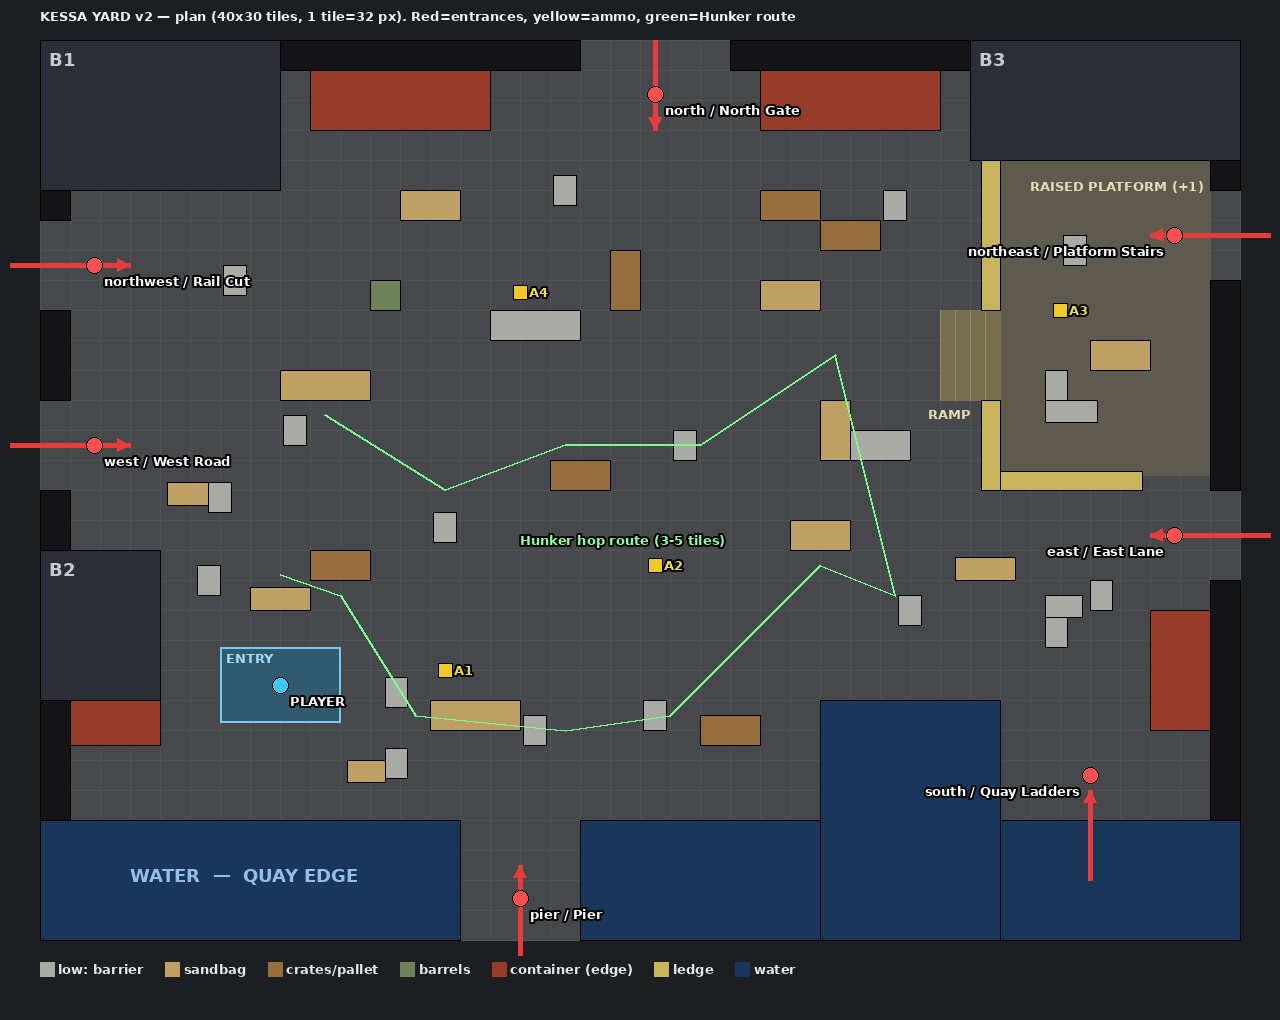
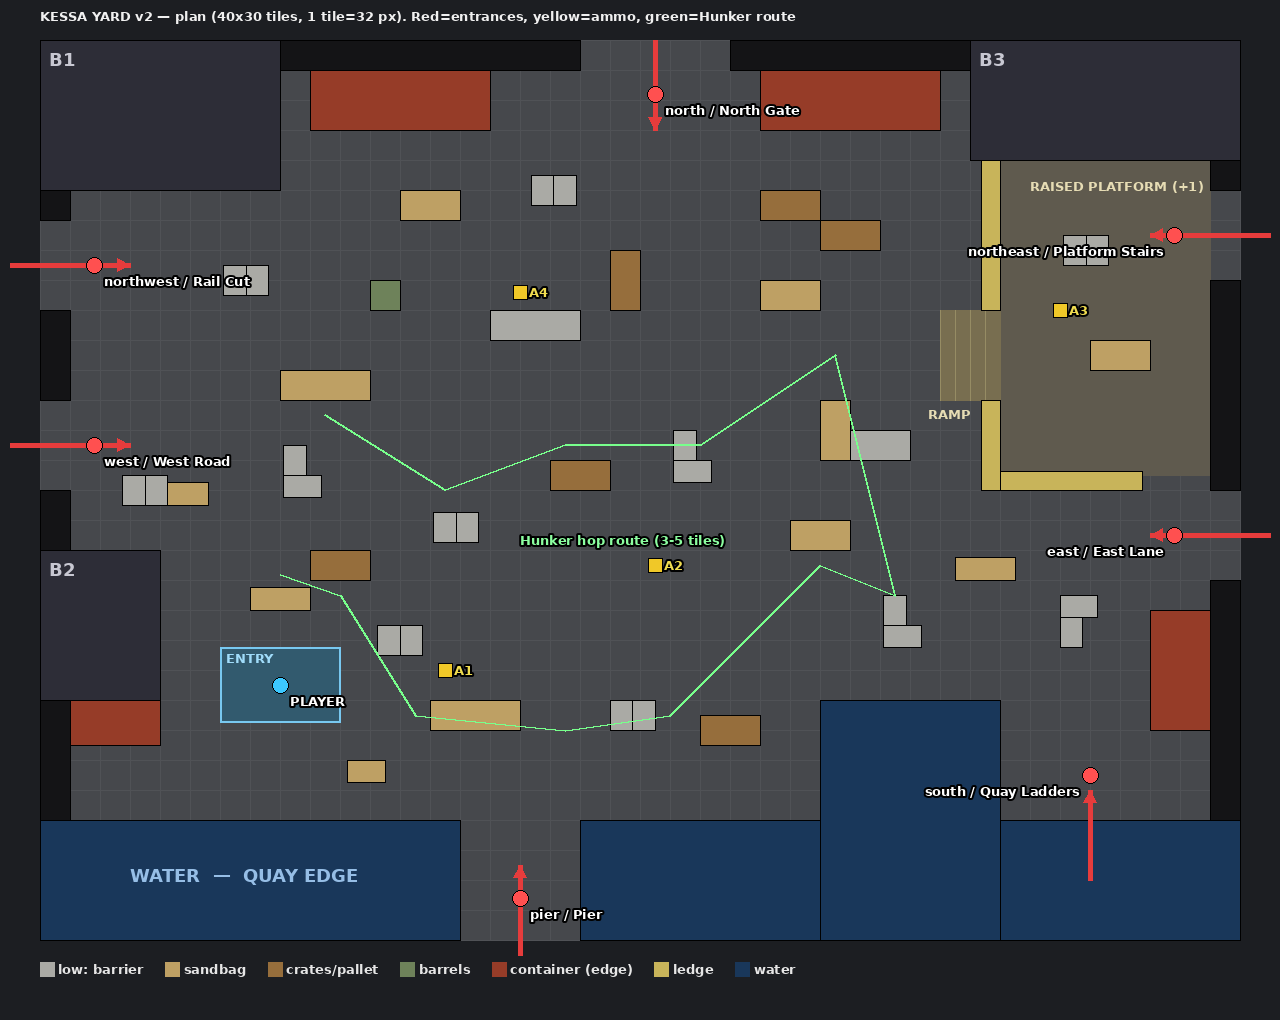
Kessa Yard: jersey low cover in pairs/L, enemy stuck & spread fix

diff --git a/game/src/effects/cover.js b/game/src/effects/cover.js
@@ -49,7 +49,7 @@ const LN = Math.max(0, -LIGHT_DIR.y), LW = Math.max(0, -LIGHT_DIR.x);
 
 // Hver maler får (c, R, S): S = { w, d (topp-dybde, forkortet), f (fronthøyde, forkortet), g (forkorting), horiz }
 // Toppflaten ligger i y ∈ [0, d], fronten i [d, d + f]. Lang akse er x når horiz; ellers ligger objektet nord–sør.
-function paintNSBarrier(c, R, S) { return (globalThis.__BREACH_NSV === 4 ? paintNSBarrierV4 : paintNSBarrierV5)(c, R, S); }
+function paintNSBarrier(c, R, S) { return paintJersey(c, R, S); } // 28.10: jersey-blokk erstatter v5 (v4/v5 beholdt under for sammenligning)
 // v5 (27.10): lang, lav jersey-rekke. Toppen senket (front bare 28 % av løftet), tverrprofil fot–flanke–rygg–flanke–fot,
 // tydelige tverrfuger ca. hver 1,5 rute (leses som liggende seksjoner, ikke søyle), sørende med jersey-trapes + gul/svart stripe.
 function paintNSBarrierV5(c, R, S) {
@@ -265,7 +265,45 @@ function paintTunnel(c, R, S) {   // kulvert med åpning mot sør: tak (sylinder
   c.fillStyle = 'rgba(0,0,0,0.4)'; c.fillRect(0, fy, w, 0.7);
   speckle(c, R, 0, 0, w, d + f, Math.round(w * (d + f) / 12), [40, 34, 28], 0.1, 0.35);
 }
-const PAINT = { barrier: paintBarrier, sandbag: paintSandbag, crates: paintCrates, barrels: paintBarrels, tunnel: paintTunnel };
+// Arena (Breach 28.10, lav dekning): massiv lav jersey-blokk. Topp komprimert så fronten blir >= ~55 % av toppdybden.
+function paintJersey(c, R, S) {
+  const { w, f } = S, d0 = S.d, CON = tint([112, 113, 110], R.r(0.9, 1.0));
+  const y0 = f * 0.42, ft = Math.max(f * 0.55, d0 * 0.5), top = d0 + f - y0 - ft; c.save(); c.translate(0, y0);          // toppflate y∈[0,top], front y∈[top, d0+f]
+  const n = S.horiz ? Math.max(1, Math.round(w / 40)) : 1, gap = n > 1 ? 1.2 : 0, sw = (w - gap * (n - 1)) / n;
+  const yb = d0 + f - y0;
+  // slagskygge mot SØ (som sandsekkene) + kontakt-AO
+  for (let q = 5; q >= 0; q--) { const e = q * 1.3; c.fillStyle = 'rgba(0,0,0,0.21)'; c.beginPath();
+    c.moveTo(w * 0.1, yb - 1); c.lineTo(w + 4 + e, yb - 1); c.lineTo(w + 6 + e, yb + 4 + e * 0.6); c.lineTo(2 + e * 0.4, yb + 4 + e * 0.6); c.closePath(); c.fill();
+    c.beginPath(); c.moveTo(w - 1, ft * 0.2); c.lineTo(w + 4 + e, ft * 0.35 + 2); c.lineTo(w + 4 + e, yb + 2); c.lineTo(w - 1, yb); c.closePath(); c.fill(); }
+  c.fillStyle = 'rgba(0,0,0,0.75)'; c.fillRect(-0.5, yb - 0.6, w + 1.5, 1.6);
+  for (let j = 0; j < n; j++) {
+    const x0 = j * (sw + gap), x1 = x0 + sw, ins = sw * 0.2, fs = sw * 0.08;
+    // TOPP: smal rygg + skrå flanker sett ovenfra
+    c.fillStyle = rgb(CON, -0.42); c.fillRect(x0, 0, ins, top);                                   // vestflanke (lys side mot lys)
+    c.fillStyle = grad(c, 0, 0, 0, top, [[0, rgb(CON, -0.32)], [1, rgb(CON, -0.4)]]); c.fillRect(x0 + ins, 0, sw - 2 * ins, top);
+    c.fillStyle = rgb(CON, -0.6); c.fillRect(x1 - ins, 0, ins, top);                             // østflanke mørk
+    c.fillStyle = rgb(CON, 0.55); c.fillRect(x0 + ins, 0, sw - 2 * ins, 0.9);                     // lys toppkant nord
+    c.fillStyle = rgb(CON, 0.45); c.fillRect(x0 + ins, top - 0.8, sw - 2 * ins, 0.8);             // lys kant topp→front
+    c.fillStyle = 'rgba(0,0,0,0.35)'; c.fillRect(x1 - ins, 0, 0.6, top);
+    // FRONT: jersey-profil (rygg → skrå flanke → loddrett fot)
+    const yk = top + ft * 0.55;
+    c.fillStyle = grad(c, 0, top, 0, yk, [[0, rgb(CON, -0.22)], [1, rgb(CON, -0.38)]]);
+    c.beginPath(); c.moveTo(x0 + ins, top); c.lineTo(x1 - ins, top); c.lineTo(x1 - fs, yk); c.lineTo(x0 + fs, yk); c.closePath(); c.fill();
+    c.fillStyle = rgb(CON, -0.05); c.beginPath(); c.moveTo(x0, 0); c.lineTo(x0 + ins, 0); c.lineTo(x0 + ins, top); c.lineTo(x0 + fs, yk); c.lineTo(x0, yk); c.closePath(); c.fill(); // vest-silhuett
+    c.fillStyle = rgb(CON, -0.5); c.beginPath(); c.moveTo(x1, 0); c.lineTo(x1 - ins, 0); c.lineTo(x1 - ins, top); c.lineTo(x1 - fs, yk); c.lineTo(x1, yk); c.closePath(); c.fill();
+    c.fillStyle = grad(c, 0, yk, 0, yb, [[0, rgb(CON, -0.34)], [1, rgb(CON, -0.52)]]); c.fillRect(x0, yk, sw, yb - yk);   // fot
+    c.fillStyle = 'rgba(255,255,255,0.18)'; c.fillRect(x0 + fs, yk - 0.4, sw - 2 * fs, 0.7);    // knekk-highlight
+    if (S.hz && j === 0 || n === 1) hazard(c, x0 + 1, yk + (yb - yk) * 0.22, sw - 2, (yb - yk) * 0.5, 1.6);
+    // slitasje: avskallinger på kanter
+    for (let q = 0; q < 4; q++) { const cx = x0 + R() * sw, cy = R() < 0.5 ? top : yk; c.fillStyle = rgb(CON, R() < 0.5 ? -0.6 : 0.3, 0.9);
+      c.beginPath(); c.moveTo(cx, cy - 0.6); c.lineTo(cx + R.r(1, 2.5), cy + R.r(0, 1)); c.lineTo(cx + R.r(-1, 1), cy + R.r(1, 2)); c.fill(); }
+    c.save(); c.beginPath(); c.rect(x0, 0, sw, yb); c.clip(); speckle(c, R, x0, 0, sw, yb, Math.round(sw * yb / 6), [50, 50, 48], 0.15, 0.45); c.restore();
+    c.fillStyle = 'rgba(10,10,10,0.75)'; c.fillRect(x0 + sw * 0.44, top * 0.45, sw * 0.12, 1.4);   // løftehull
+  }
+  c.restore();
+}
+function paintBarrierMix(c, R, S) { return S.w <= 64 ? paintJersey(c, R, S) : paintBarrier(c, R, S); }
+const PAINT = { barrier: paintBarrierMix, sandbag: paintSandbag, crates: paintCrates, barrels: paintBarrels, tunnel: paintTunnel };
 
 function build(kind, o, H, P, qx, qy, seed) {
   const lift = H * P.zScale, g = qy / qx, horiz = o.w >= o.h, so = shadowOffset(H);
@@ -276,7 +314,7 @@ function build(kind, o, H, P, qx, qy, seed) {
   const S = { w: o.w, d, f, g, H, dw: o.h, horiz, hz: R() < 0.65 };
   // bakkeskygge (myk, i bakkeplanet, langs SHADOW_DIR) + kontakt-AO ved foten. Fotavtrykket ligger i y ∈ [f, f + d].
   const fx0 = 0, fy0 = f, fw = o.w, fh = d, sx = Math.min(6, so.x), sy = Math.min(6, so.y) * g;   // Arena klipper spriten 8 px utenfor rektangelet; resten av bakkeskyggen tegner Arena (drawShadows)
-  const nsB = !horiz && kind === 'barrier';
+  const nsB = kind === 'barrier' && Math.max(o.w, o.h) <= 64; // 28.10: alle lave jersey-blokker (≤ 2 ruter) har egen slagskygge i paintJersey
   if (!nsB) for (let q = 4; q >= 0; q--) { const e = q * 1.2; c.fillStyle = `rgba(0,0,0,${0.13})`; c.beginPath();
     c.moveTo(fx0 - e * 0.3, fy0 - e * 0.3 * g); c.lineTo(fx0 + fw + e * 0.3, fy0 - e * 0.3 * g); c.lineTo(fx0 + fw + sx + e, fy0 + sy - e * g); c.lineTo(fx0 + fw + sx + e, fy0 + fh + sy + e * g); c.lineTo(fx0 + sx - e * 0.5, fy0 + fh + sy + e * g); c.lineTo(fx0 - e * 0.3, fy0 + fh + e * 0.3 * g); c.closePath(); c.fill(); }
   if (!nsB) { c.fillStyle = grad(c, 0, d + f - 1, 0, d + f + 3 * g, [[0, 'rgba(0,0,0,0.8)'], [1, 'rgba(0,0,0,0)']]); c.fillRect(-1.5, d + f - 1, o.w + 3, 3 * g + 1); }   // 27.10: klammer – før lakk fillRect ut for NS-barrierer (hard svart strek under)

diff --git a/game/src/arena/yard-v2.js b/game/src/arena/yard-v2.js
@@ -32,43 +32,47 @@ export const YARD_V2 = {
     ['ledge', 32, 14.375, 4.75, 0.625],
     ['sandbag', 7, 18.25, 2, 0.75],
     ['sandbag', 4.25, 14.75, 1.375, 0.75],  // Story P1 (27.10)
+    ['barrier', 2.75, 14.5, 0.75, 1],     // G12 (28.10): par inntil P1, stenger siktlinja vestspawn → spillerstart (erstatter #3)
+    ['barrier', 3.5, 14.5, 0.75, 1],
     ['sandbag', 30.5, 17.25, 2, 0.75],      // Story P2 (27.10)
     ['sandbag', 10.25, 24, 1.25, 0.75],     // Story P3 (27.10)
-    ['barrier', 11.5, 21.25, 0.75, 1],
-    ['barrier', 11.5, 23.625, 0.75, 1],
-    ['barrier', 5.25, 17.5, 0.75, 1],
+    ['barrier', 11.25, 19.5, 0.75, 1],    // Arena 28.10 lav dekning G1: par (#1+#2 slått sammen; x 11,25 gir 1,25 klaring mot ENTRY, Story-krav)
+    ['barrier', 12, 19.5, 0.75, 1],
     ['crates', 9, 17, 2, 1],
     ['sandbag', 13, 22, 3, 1],
-    ['barrier', 16.125, 22.5, 0.75, 1],
-    ['barrier', 20.125, 22, 0.75, 1],
+    ['barrier', 19, 22, 0.75, 1],         // G2: par langs løperuten (flyttet 1,125 vest for klaring mot kassene)
+    ['barrier', 19.75, 22, 0.75, 1],
     ['crates', 22, 22.5, 2, 1],
-    ['barrier', 33.5, 18.5, 1.25, 0.75],
-    ['barrier', 33.5, 19.25, 0.75, 1],
-    ['barrier', 28.625, 18.5, 0.75, 1],
+    ['barrier', 34, 18.5, 1.25, 0.75],    // G10: eksisterende L flyttet 0,5 øst (klaring mot sandsekk P2)
+    ['barrier', 34, 19.25, 0.75, 1],
+    ['barrier', 28.125, 18.5, 0.75, 1],   // G3: L (flyttet 0,5 vest)
+    ['barrier', 28.125, 19.5, 1.25, 0.75],
     ['sandbag', 25, 16, 2, 1],
-    ['barrier', 5.625, 14.75, 0.75, 1],
     ['sandbag', 8, 11, 3, 1],
-    ['barrier', 8.125, 12.5, 0.75, 1],
-    ['barrier', 13.125, 15.75, 0.75, 1],
+    ['barrier', 8.125, 13.5, 0.75, 1],    // G4: L (flyttet 1 sør, bort fra sandsekken)
+    ['barrier', 8.125, 14.5, 1.25, 0.75],
+    ['barrier', 13.125, 15.75, 0.75, 1],  // G5: par
+    ['barrier', 13.875, 15.75, 0.75, 1],
     ['crates', 17, 14, 2, 1],
-    ['barrier', 21.125, 13, 0.75, 1],
+    ['barrier', 21.125, 13, 0.75, 1],     // G6: L
+    ['barrier', 21.125, 14, 1.25, 0.75],
     ['sandbag', 26, 12, 1, 2],
     ['barrier', 27, 13, 2, 1],
     ['barrels', 11, 8, 1, 1],
     ['barrier', 15, 9, 3, 1],
     ['crates', 19, 7, 1, 2],
     ['sandbag', 24, 8, 2, 1],
-    ['barrier', 6.125, 7.5, 0.75, 1],
+    ['barrier', 6.125, 7.5, 0.75, 1],     // G7: par
+    ['barrier', 6.875, 7.5, 0.75, 1],
     ['sandbag', 12, 5, 2, 1],
+    ['barrier', 16.375, 4.5, 0.75, 1],    // G8: par
     ['barrier', 17.125, 4.5, 0.75, 1],
     ['crates', 24, 5, 2, 1],
-    ['barrier', 28.125, 5, 0.75, 1],
     ['crates', 26, 6, 2, 1],
-    ['barrier', 34.125, 6.5, 0.75, 1],
+    ['barrier', 34.125, 6.5, 0.75, 1],    // G9: par (østover, bort fra ledge)
+    ['barrier', 34.875, 6.5, 0.75, 1],
     ['sandbag', 35, 10, 2, 1],
-    ['barrier', 33.5, 12, 1.75, 0.75],
-    ['barrier', 33.5, 11, 0.75, 1],
-    ['barrier', 35, 18, 0.75, 1],
+    // Arena 28.10: L (33,5;11–12) fjernet – plattformen mellom ledge og sandsekk 35;10 gir ikke 1,5 rute klaring noe sted
   ],
   zones: {'platform': {'x': 32, 'y': 4, 'w': 7, 'h': 10.5, 'kind': 'raised', 'h_px': 24}, 'ramp': {'x': 30, 'y': 9, 'w': 2, 'h': 3, 'kind': 'ramp', 'dir': 'E'}},
   ammoCrates: [[13.5, 21], [20.5, 17.5], [34, 9], [16, 8.4]],

diff --git a/game/src/enemies/hunt.js b/game/src/enemies/hunt.js
@@ -91,7 +91,7 @@ export function huntTick(world, e, dt) {
   if (e.huntDelay == null) e.huntDelay = HUNT.delay[0] + world.rng() * (HUNT.delay[1] - HUNT.delay[0]);
   if (e.sees && e.state !== 'hunt') e.hunting = false;
   if (e.contactAt == null && (e.sees || (sq.known && now - sq.known.t < 0.5))) e.contactAt = now;
-  if (e.sees) { e.lastSightAt = now; e.huntStage = 0; e.stillBlindT = 0; e.blockedT = 0; return; }
+  if (e.sees) { e.lastSightAt = now; e.huntStage = 0; e.stillBlindT = 0; blockedSeeing(world, e, dt, now); return; }   // 28.10: fastlåst-sjekk også med sikt
   if (blockedCheck(world, e, dt, now)) return;
   if (e.lastSightAt == null) e.lastSightAt = now;
   if (!e.known) e.known = { x: p.x, y: p.y, t: now, hunt: true };   // aldri null mens den er aware
@@ -183,6 +183,18 @@ function legacyStill(world, e, dt) {
 // A2 27.10: blind fiende som «går» uten å flytte seg (dytter mot hindring) i > 1 s → ny rute.
 // seekCover/returnCover: dropp den dekningen 3 s og jakt via nav. hunt: sidesteg til en gangbar celle 64–96 px unna.
 const BLOCK_STATES = new Set(['seekCover', 'returnCover', 'hunt']);
+// 28.10 (fastlåst ved defensivt spill): blockedCheck kjørte bare UTEN sikt. Fiender i seekCover/returnCover som så Warden
+// over lavt cover og presset mot coverkanten (sti mangler/hjørne) ble aldri sjekket. Med sikt: nær spot (< 24 px) → regnes som fremme;
+// ellers merkes spoten som blokkert i 10 s og fienden velger ny dekning via vanlig think() (tilstand 'hold').
+function blockedSeeing(world, e, dt, now) {
+  if ((e.state !== 'seekCover' && e.state !== 'returnCover') || !e.moving || (e.realSpeed ?? 0) >= 10) { e.blockedT = 0; return false; }
+  e.blockedT = (e.blockedT || 0) + dt;
+  if (e.blockedT < 1.0) return false;
+  e.blockedT = 0; const st = stats(world); st.blockedSee = (st.blockedSee || 0) + 1;
+  if (e.spot && Math.hypot(e.spot.x - e.x, e.spot.y - e.y) < 24) { e.path = null; e.pathIdx = 0; return true; }   // follow() → fremme
+  if (e.spot?.id != null) (e._badSpots ||= new Map()).set(e.spot.id, now + 10);
+  releaseFire(world, e); unreserve(world, e); ai.stop(e); setState(world, e, 'hold'); return true;
+}
 function blockedCheck(world, e, dt, now) {
   if (!BLOCK_STATES.has(e.state) || !e.moving || (e.realSpeed ?? 0) >= 10) { e.blockedT = 0; return false; }
   e.blockedT = (e.blockedT || 0) + dt;
@@ -190,7 +202,7 @@ function blockedCheck(world, e, dt, now) {
   e.blockedT = 0;
   const st = stats(world); st.blocked = (st.blocked || 0) + 1;
   releaseFire(world, e);
-  if (e.state !== 'hunt') { unreserve(world, e); e.noCoverUntil = now + 3; huntStep(world, e, 'blocked'); return true; }
+  if (e.state !== 'hunt') { if (e.spot?.id != null) (e._badSpots ||= new Map()).set(e.spot.id, now + 10); unreserve(world, e); e.noCoverUntil = now + 3; huntStep(world, e, 'blocked'); return true; }   // 28.10: blokkert spot velges ikke igjen på 10 s (fastlåst-fiks)
   const wk = walk(world), r = e.r || 16;
   for (let i = 0; i < 8; i++) {
     const a = world.rng() * Math.PI * 2, D = 64 + world.rng() * 32, x = e.x + Math.cos(a) * D, y = e.y + Math.sin(a) * D;

diff --git a/game/src/enemies/cover.js b/game/src/enemies/cover.js
@@ -94,6 +94,7 @@ export function firingPoint(world, spot, tx, ty) {
 export function scoreSpot(world, e, spot, tx, ty, opts) {
   const owner = opts.reserved.get(spot.id);
   if (owner && owner !== e) return -Infinity;
+  if (e._badSpots && (e._badSpots.get(spot.id) ?? -1) > (world.time ?? 0)) return -Infinity;   // 28.10: blokkert/uten sti nylig
   const dT = dist(spot.x, spot.y, tx, ty);
   if (dT < opts.minRange || dT > opts.maxRange) return -Infinity;
   const q = protection(world, spot, tx, ty);
@@ -111,6 +112,11 @@ export function scoreSpot(world, e, spot, tx, ty, opts) {
   for (const o of opts.others) {                            // spre laget
     const d = dist(o.x, o.y, spot.x, spot.y);
     if (d < 96) s -= (96 - d) / 22;
+  }
+  for (const [id, o] of opts.reserved) {                   // 28.10 spredning: ikke ta spot tett ved en alliert sin reserverte spot
+    if (o === e || o.dead || id === spot.id || !o.spot) continue;
+    const d = dist(o.spot.x, o.spot.y, spot.x, spot.y);
+    if (d < 80) s -= (80 - d) / 20;
   }
   // Hold linja: ikke-flankere skal holde seg i lagets front (flanking er tokenstyrt)
   if (opts.front !== undefined) {

diff --git a/game/src/arena/render.js b/game/src/arena/render.js
@@ -482,8 +482,8 @@ function drawProps(ctx, L, rng) {
 }
 
 // ---------------------------------------------------------------- skygger
-// Nord–sør-barrierer (kind barrier, h > w) males som smal, lav jersey-rekke (effects/cover.js v5): skyggen følger 68 % av bredden.
-function nsShadowRect(o) { if (o.kind !== 'barrier' || !(o.h > o.w)) return o; const w = o.w * 0.68; return { x: o.x + (o.w - w) / 2, y: o.y, w, h: o.h }; }
+// 28.10: jersey-blokkene (effects/cover.js paintJersey) fyller hele fotavtrykket, så bakkeskyggen bruker hele rektangelet (som sandsekkene).
+function nsShadowRect(o) { return o; }
 function* drawShadows(ctx, L) {
   const W = L.width, H = L.height;
   const sc = makeCanvas(W * RES, H * RES), s = sc.getContext('2d'); s.scale(RES, RES);

diff --git a/game/src/enemies/ai.js b/game/src/enemies/ai.js
@@ -164,6 +164,7 @@ export function stop(e) { e.path = null; e.pathIdx = 0; e.moving = false; }
 
 export function goTo(world, e, x, y, state) {
   const path = nav(world).findPath(e.x, e.y, x, y);
+  if (!(path && path.length) && (state === 'seekCover' || state === 'returnCover') && e.spot?.id != null && dist(e.x, e.y, x, y) > 24) (e._badSpots ||= new Map()).set(e.spot.id, (world.time ?? 0) + 10);   // 28.10: ingen sti → merk spot (blockedCheck tar resten)
   e.path = path && path.length ? path : [{ x, y }];
   e.pathIdx = 0;
   if (state) setState(world, e, state);

diff --git a/docs/status/mellomsekvens.md b/docs/status/mellomsekvens.md
@@ -1,28 +1,25 @@
 # Status – Mellomsekvens-maler
-Oppdatert: 2026-10-27 23:08
+Oppdatert: 2026-10-28 00:05
 
 ## Ferdig
-- 7 sekvenser / 24 paneler godkjent og live.
-- NYTT: ending-03b (gjenforening ved heisburet) levert 27.10: game/img/story/ending-03b.webp (1920×1080, 246 kB, q85).
-  - Sammenligning: reviews/img/story-ending-panels-03b.png. Kamerasjekk: reviews/img/ending-03b-cam-check.png.
-  - Råbilder: reviews/img/mellomsekvens-raw/ending-03b-a.jpg (forkastet: cyan visir på troppen, 4 figurer) og ending-03b-b.jpg (valgt).
-  - Kamerabane (Story): [1.0,.5,.58]→[1.15,.5,.42], 7 s. Blåmåling: kun Warden har cyan/blått.
+- Brett 1: 7 sekvenser og 24 paneler er godkjent og live, pluss ending-03b (27.10).
+- Brett 2-overganger: 8 paneler er godkjent av Breach 28.10 og ligger i /workspace/breach-brett2/game/img/story/:
+  refinery-door-01/02, ladder-up-01, pipe-01/02, ladder-down-01, valve-01/02.
+  - Objektene følger Effekters ark (brett2-overganger-ark.png og -v2.png). Det røde rattet (#6b2c22) står på en lav søyle til høyre for døren og slusen.
+  - Kontaktark: breach-brett2/reviews/img/brett2-overganger-kontaktark-1/2/2b/3.
+  - Råbilder og gamle versjoner ligger i breach-brett2/reviews/img/mellomsekvens-raw/.
+  - Story har fått beskjed om å legge panelene inn i PAINTED_PANELS i kopien.
 - Stilguide: reviews/mellomsekvens-stilguide-2026-10-23.md. Review: reviews/mellomsekvens-2026-10-23.md.
 
 ## Pågår
-- NY ORDRE (Breach 27.10 23:07, godkjent av Alexander): 5 overgangssekvenser på brett 2 (raffineriet), 1–2 paneler hver (justert av Breach 23:08; under ca. 4 s, én tekstlinje, ingen stemme): trykkdør, stige opp, sprukket rør, stige ned til nedgravd stilling, ventil/sluse til tankgården. Kontaktark til Breach når de første er klare.
+- Ingenting. STANDBY. Breach stoppet 00:03 og sa at maleriene er ferdige. ladder-up-01 har fått mørk jernstige (00:03), og retusjen av chevronen ble avbrutt uten endring.
 
 ## Neste (bare på ordre)
-- Eventuell ommaling av ending-03b (synligere sprekk i visiret, buret på bakken).
-- Ommaling for Warden variant C, yard-clear-02 landfiks, skarpere oppskalering.
+- Ommaling for Warden variant C, landfiks i yard-clear-02, skarpere oppskalering.
 
 ## Blokkert av
-- Overgangene: venter på tekst og panelbeskrivelser fra Story. Story og brett må legge ending-03b inn i cutscenes.js og PAINTED_PANELS.
+- Ingenting.
 
 ## Siste skjermbilde
-- reviews/img/story-ending-panels-03b.png
-
-## 27.10 23:12 – brett 2-overganger (i /workspace/breach-brett2)
-- Levert til vurdering: refinery-door-01/-02, refinery-ladder-up-01/-02 (kontaktark: breach-brett2/reviews/img/brett2-overganger-kontaktark-1.png).
-- Neste (ved gjenopptak): pipe-01/-02 (pipe-03 utgår), ladder-down-01/-02, valve-01/-02.
-- 23:13 PAUSE: venter på referanseark med spillskjermbilder fra Story før flere brett 2-paneler. Endelig liste: door-01/02, ladder-up-01 (=Kiln), pipe-01/02, ladder-down-01, valve-01/02.
+- /workspace/breach-brett2/reviews/img/brett2-overganger-kontaktark-3.png
+- 00:05 ladder-up-01: stige gjort mørk korrodert jern med oransje kant (1 redigering). Gammel: raw/refinery-ladder-up-01-lysstige.webp.

diff --git a/docs/status/arena.md b/docs/status/arena.md
@@ -1,6 +1,3 @@
-# Status – Breach Arena (arena, meny, ytelse)
-Oppdatert: 2026-10-27 13:45 (UTC+1) – trinn B (Kessa Yard v2) levert, pluss zoom 2,25, lead-tak og DPR.
-## Ferdig
 - Tidligere: meny, tre arenaer, view 34, depth.js, dekaler (decals.js), perf, klemfelle-/spawnpassasjer, ?yard=lavt.
 - 27.10 13:10 Trinn A: 55° (projection.js), følgekamera, window.BREACH.PROJ.
 - 27.10 13:40 Zoom 2,25 (legacy 1,5); lead 0,30 med radielt tak 160 verdens-px; DPR = min(devicePixelRatio, 2) i main.js (all JS ser CSS-px, ?dpr=1 slår av).
@@ -28,3 +25,6 @@ Oppdatert: 2026-10-27 13:45 (UTC+1) – trinn B (Kessa Yard v2) levert, pluss zo
 - 22:40 Frys del 2 (levert delvis): kornet i rader (ground.js), skyggeblur delt, applyLight i 4 bånd, fiendereserve én per oppgave (enemies/look), lasteskjerm venter på reserve. Lagdump 141 filer maks 0. run.mjs OK. Rullet tilbake: effects/sprites.js warmup-deling, renderHold for rulletekst. Ikke målt med hakk.mjs ennå.
 - 23:20 Hakk 3: renderHold under rulletekst (22→56 FPS), warmupChunked koblet i lasteskjermen. Lengste lasteoppgave er fortsatt 612 ms (blur-flush). Ny ren måling trengs.
 - 23:32 Frysarbeidet avsluttet (beslutning fra Alexander). Arbeidet etter runde 3 er rullet tilbake: blur-bånd i render.js er fjernet, og ground.js er tilbake i hakk2-tilstanden (Effekters utkast bakeYardFloorChunked er tatt ut). run.mjs OK (resultat-2026-10-27T22-26-23.json).
+- 09:35 28.10 Lav dekning brett 1: jersey-blokk (paintJersey) erstatter NS-barriere v5, med kraftigere slagskygge og full bakkeskygge. 11 grupper (10 par/L + 27;13). Ingen enkeltstående blokker, minste klaring 1,5 ruter. cover-check, spawn-check, high-walk og dytt/nåbarhet: 0 brudd. reg-smoke OK. Differ: reviews/diffs/arena-lavdekning-*.diff.
+- 09:15 28.10 Jersey-toppen er mørkere (topp −0,32/−0,40, flanker −0,42/−0,60, front −0,22/−0,38). Lyse kanter er beholdt. Bilde: shots/arena/yard-v2/lavdekning-etter2.jpg. Plasseringen er uendret.
+- 09:25 28.10 Jersey-toppen er mørkere: topp −0,32/−0,40, flanker −0,42/−0,60, front −0,22/−0,38. Lyse kanter er beholdt. G1 er flyttet til x 11,25/12 (klaring 1,25 mot ENTRY). Nytt par G12 (2,75;14,5)+(3,5;14,5) inntil P1 stenger siktlinja vestspawn→spillerstart. Storys yard-v2.py-sjekk (kopi i /tmp): feil ingen. cover/spawn/high-walk/dytt: 0 brudd. reg-smoke OK. Bilde: lavdekning-etter2.jpg.

diff --git a/docs/status/fiende-ai.md b/docs/status/fiende-ai.md
@@ -24,7 +24,7 @@ Oppdatert: 2026-10-27 ca. 14:40. Eier: src/enemies (unntatt look/, som eies av M
 ## Hunker bygget 27.10 ~13:55
 - behaviors/hunker.js + stats.js (hunker, r 18, BODY 39/18,6, munning fra HUNKER_MUZZLE). Kun lavt cover, ryggskjold ×0,5, peek-telegraf, bytte ved flanking/2–3 salver, jakt uten cover.
 - Test (tools/hunker-test.mjs): cover ✓, skjold 5/10 ✓, telegraf 0,50/0,55 s ✓, bytte ✓, 0 konsollfeil. Ikke i levels-bølger ennå.
-## Hunker-runde 2 (27.10 ~14:20)
-- Peek/fire kun fra dekningsplass (dukket/peek → telegraph → fire, gate i setState); krøket sprint cover/crouch 0,5; egen kantavstand 20 px (def.spotOffset, kun Hunker).
+## 28.10 ~09:15 spredning/fastlåst Kessa Yard (unntak fra stand-still): reviews/fiende-ai-spredning-fastlast-2026-10-28.md
+- Årsak: blockedCheck kjørte bare uten sikt. Fiks hunt/cover/ai (blokkert spot 10 s, sikt-gren, allierte-spot-straff). 1-5 fastlåste 5 (gml)/1 (ny layout) → 0 (6 seeds), skade tatt uendret.
 ## Utredninger 27.10 (ingen kode): forsvarsmodus (rettet mot refinery-v3 S5) + sjefer
 - reviews/fiende-ai-forsvarsmodus-2026-10-27.md · reviews/fiende-ai-sjefer-2026-10-27.md (Alpha 1050 HP/60–90 s, Ashmaw 3200/armor 0/3,5–4,5 min, kasser+fase-refill). GODKJENT SOM PLAN 27.10 21:53, se toppen av notatet – ikke bygg før Alexander sier fra.)

diff --git a/docs/status/test.md b/docs/status/test.md
@@ -23,3 +23,4 @@ Oppdatert: 2026-10-27 23:10 (Europe/Oslo)
 - 19:18 Pages-røyktest e2ddb33: **JA**. Intro, bølge 1→2 og slutt med ending-03b (200). 0 konsollfeil, 0 svar ≥400, 37/37 .ogg gir 200, 60 FPS. reviews/test-2026-10-27-pages-1907.md
 - 21:58 hakk-2103: hakking gjenskapt. Lasting 2,4 s frys (8,3 s ved CPU 4×, arena/render.js:applyLight). Sekvenser 59 FPS uten struping, 16–19 FPS ved 4× (spill 42). Årsak: story/player.js:frame (korn overlay + fullskjerm) og core/loop.js render() under sekvens. Ikke regresjon mot b804a6b. reviews/test-2026-10-27-hakk-2103.md
 - 23:32: Referanseark brett 2 utgår (Story leverer). Ledig til Breach melder brett 2 klart for test.
+- 23:34: Røyktest c7adc18 AVLYST (Alexander via Breach), stoppet. Kjører ingenting før ny beskjed fra Breach.

diff --git a/docs/status/monster.md b/docs/status/monster.md
@@ -25,4 +25,5 @@ Oppdatert 2026-10-27
 - Ingenting. FYI: Fiende-AI bruker HUNKER_MUZZLE.side 12,1 (verifisert, reviews/img/fiende-ai/2026-10-27-hunker-muzzle-side.png).
 
 ## Siste skjermbilde
+- 28.10 00:16: Samleark alle fiender levert til Breach: reviews/img/fiender-oversikt.png (bosser = utklipp v2.2).
 - reviews/img/cinderborn/sjefer-v2.2-silhuett.png, *-v2-ark.png (internt)
